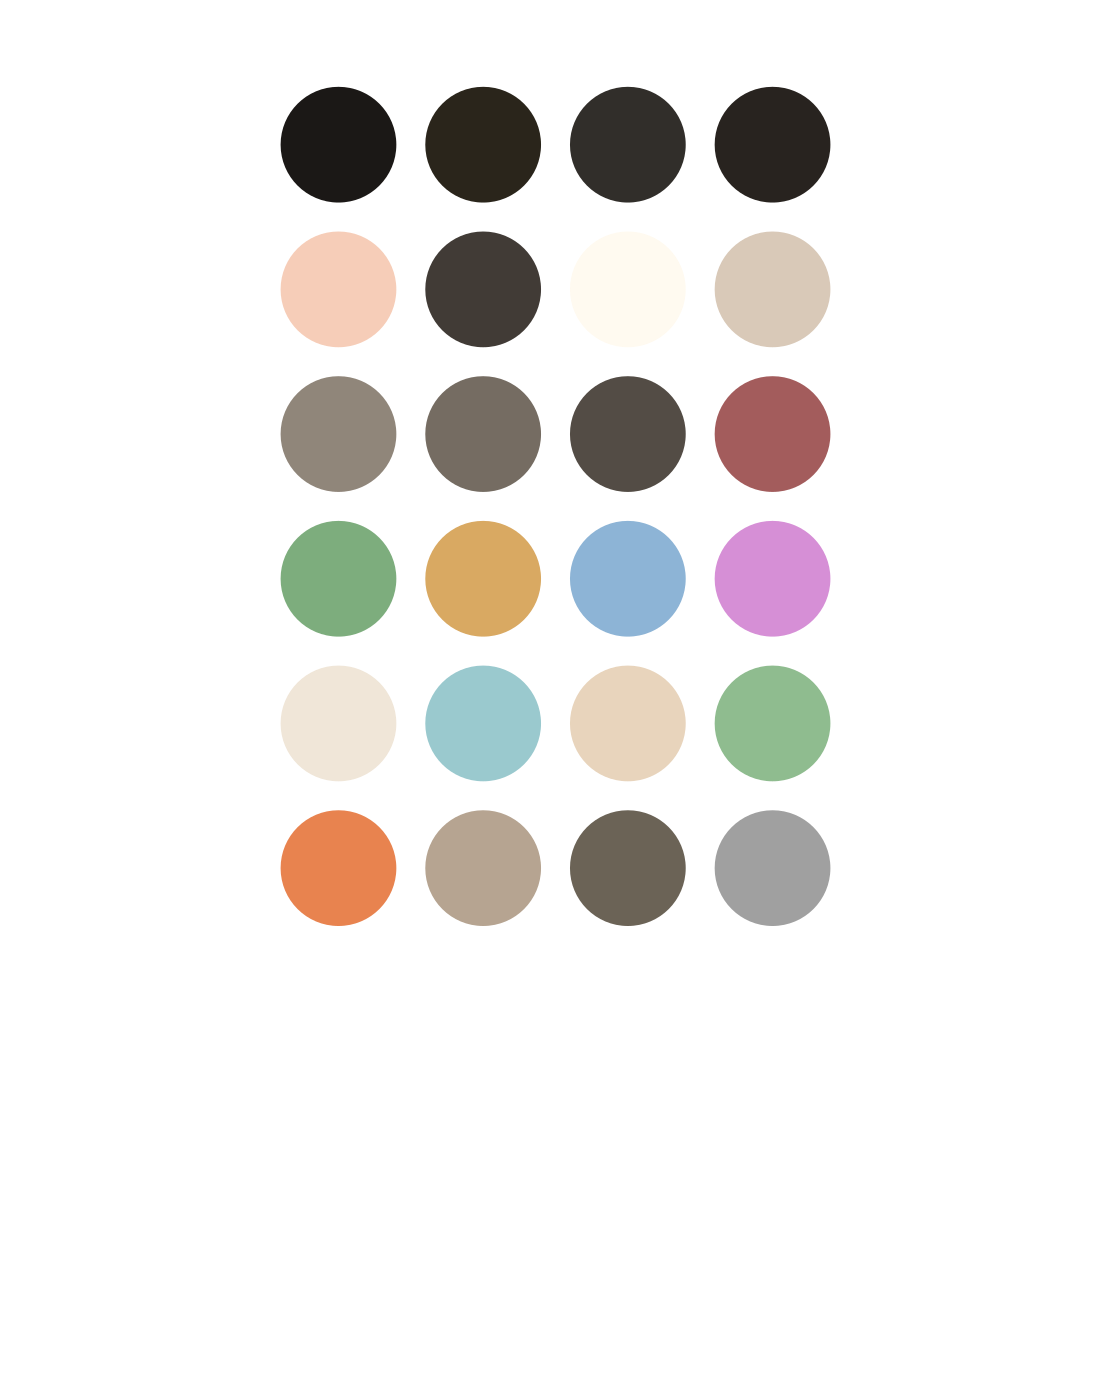
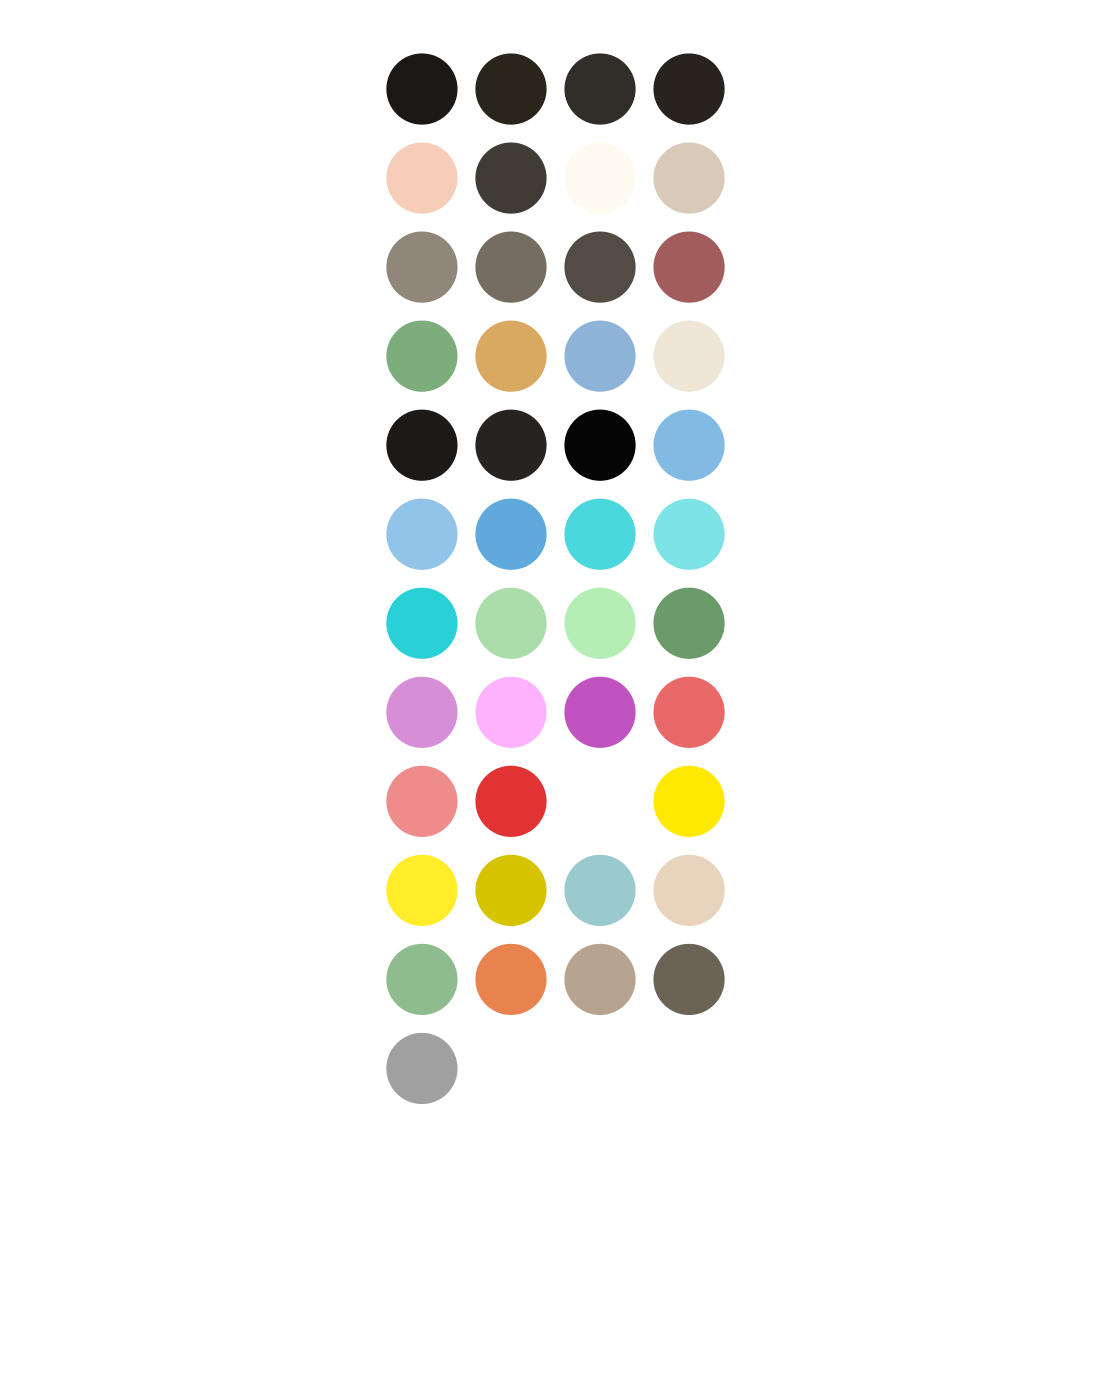
Improve terminal ANSI color palette for Honeycrisp IIe

Changed region(s): [[0.2448, 0.031, 0.7651, 0.8049]]

diff --git a/src/honeycrisp-IIe/theme.ts b/src/honeycrisp-IIe/theme.ts
@@ -22,11 +22,33 @@ export const base = {
     green: '#7dad7d',
     yellow: '#d9a962',
     blue: '#8db4d6',
-    cyan: '#8db4d6',
-    magenta: '#d68fd6',
     white: '#f0e6d8',
     black: '#0d0b09',
     transparent: '#00000000',
+    terminalBlack: '#1c1917',
+    terminalBlackBright: '#272320',
+    terminalBlackDim: '#060505',
+    terminalBlue: '#81bbe4',
+    terminalBlueBright: '#91c4e8',
+    terminalBlueDim: '#5fa9dd',
+    terminalCyan: '#4bd8dd',
+    terminalCyanBright: '#7ee3e7',
+    terminalCyanDim: '#29d1d6',
+    terminalGreen: '#aaddaa',
+    terminalGreenBright: '#b5eeb5',
+    terminalGreenDim: '#6b9b6b',
+    terminalMagenta: '#d68fd6',
+    terminalMagentaBright: '#ffb3ff',
+    terminalMagentaDim: '#c053c0',
+    terminalRed: '#e96868',
+    terminalRedBright: '#ee8c8c',
+    terminalRedDim: '#e13333',
+    terminalWhite: '#fffaf0',
+    terminalWhiteBright: '#ffffff',
+    terminalWhiteDim: '#90867a',
+    terminalYellow: '#ffe900',
+    terminalYellowBright: '#ffed29',
+    terminalYellowDim: '#d6c400',
     syntaxString: '#fffaf0',
     syntaxNumber: '#d68fd6',
     syntaxBoolean: '#d68fd6',
@@ -77,6 +99,8 @@ export function createSvg({ colors }: Theme) {
       fill="${color}"
     />
   `
+  
+  
 
   return `
     <svg
@@ -157,30 +181,30 @@ function createTheme({ colors, styles }: Theme, themeName: string) {
       'terminal.foreground': colors.textExtraLight,
       'terminal.bright_foreground': colors.textExtraLight,
       'terminal.dim_foreground': colors.textMedium,
-      'terminal.ansi.black': colors.black,
-      'terminal.ansi.bright_black': colors.black,
-      'terminal.ansi.dim_black': colors.black,
-      'terminal.ansi.red': colors.red,
-      'terminal.ansi.bright_red': colors.red,
-      'terminal.ansi.dim_red': colors.red,
-      'terminal.ansi.green': colors.green,
-      'terminal.ansi.bright_green': colors.green,
-      'terminal.ansi.dim_green': colors.green,
-      'terminal.ansi.yellow': colors.yellow,
-      'terminal.ansi.bright_yellow': colors.yellow,
-      'terminal.ansi.dim_yellow': colors.yellow,
-      'terminal.ansi.blue': colors.blue,
-      'terminal.ansi.bright_blue': colors.blue,
-      'terminal.ansi.dim_blue': colors.blue,
-      'terminal.ansi.magenta': colors.magenta,
-      'terminal.ansi.bright_magenta': colors.magenta,
-      'terminal.ansi.dim_magenta': colors.magenta,
-      'terminal.ansi.cyan': colors.cyan,
-      'terminal.ansi.bright_cyan': colors.cyan,
-      'terminal.ansi.dim_cyan': colors.cyan,
+      'terminal.ansi.black': colors.terminalBlack,
+      'terminal.ansi.bright_black': colors.terminalBlackBright,
+      'terminal.ansi.dim_black': colors.terminalBlackDim,
+      'terminal.ansi.red': colors.terminalRed,
+      'terminal.ansi.bright_red': colors.terminalRedBright,
+      'terminal.ansi.dim_red': colors.terminalRedDim,
+      'terminal.ansi.green': colors.terminalGreen,
+      'terminal.ansi.bright_green': colors.terminalGreenBright,
+      'terminal.ansi.dim_green': colors.terminalGreenDim,
+      'terminal.ansi.yellow': colors.terminalYellow,
+      'terminal.ansi.bright_yellow': colors.terminalYellowBright,
+      'terminal.ansi.dim_yellow': colors.terminalYellowDim,
+      'terminal.ansi.blue': colors.terminalBlue,
+      'terminal.ansi.bright_blue': colors.terminalBlueBright,
+      'terminal.ansi.dim_blue': colors.terminalBlueDim,
+      'terminal.ansi.magenta': colors.terminalMagenta,
+      'terminal.ansi.bright_magenta': colors.terminalMagentaBright,
+      'terminal.ansi.dim_magenta': colors.terminalMagentaDim,
+      'terminal.ansi.cyan': colors.terminalCyan,
+      'terminal.ansi.bright_cyan': colors.terminalCyanBright,
+      'terminal.ansi.dim_cyan': colors.terminalCyanDim,
       'terminal.ansi.white': colors.white,
-      'terminal.ansi.bright_white': colors.white,
-      'terminal.ansi.dim_white': colors.white,
+      'terminal.ansi.bright_white': colors.terminalWhiteBright,
+      'terminal.ansi.dim_white': colors.terminalWhiteDim,
       'link_text.hover': colors.textExtraLight,
       conflict: colors.red,
       'conflict.background': colors.background,
